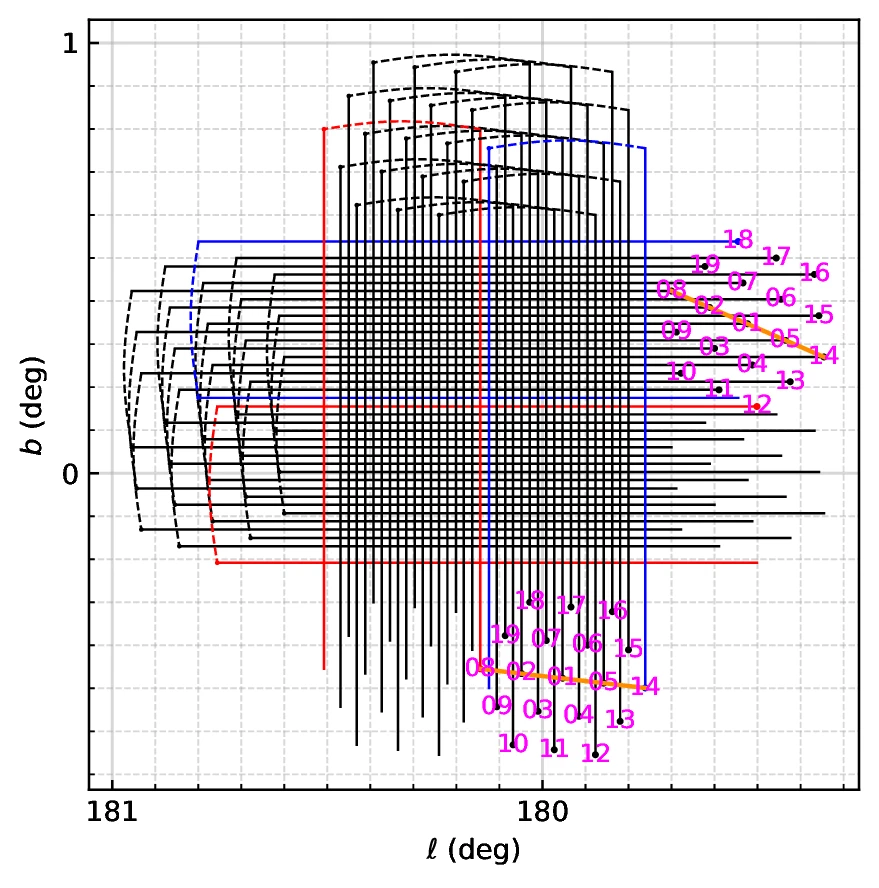
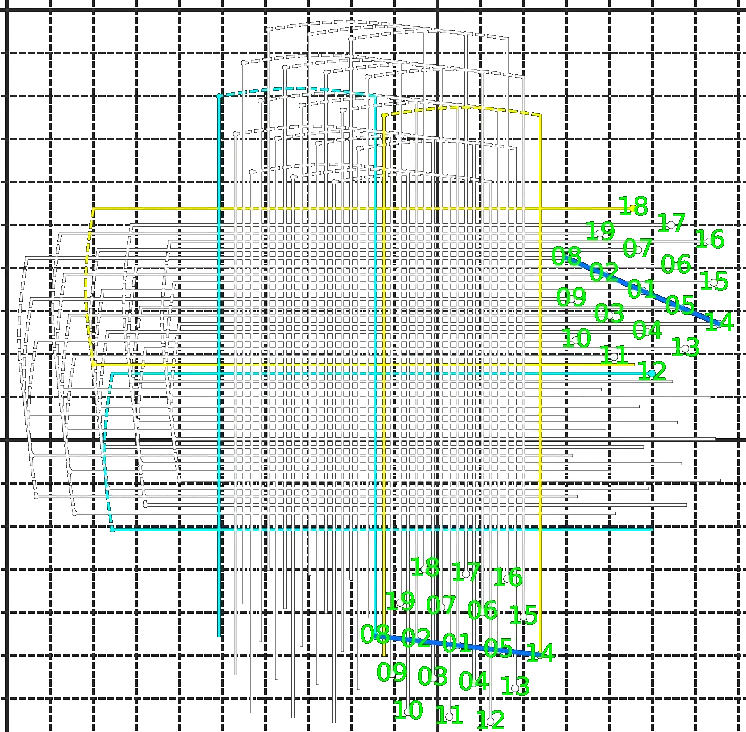
edit

diff --git a/index.html b/index.html
@@ -36,7 +36,7 @@
           <div><strong>~80</strong><span>mK target sensitivity</span></div>
         </div>
         <div>
-          <img src="output.webp" class="hero-image"
+          <img src="scanning-pattern.webp" class="hero-image"
             alt="Scanning pattern">
         </div>
         <a class="button button-light" href="#data">Data products ↓</a>
@@ -45,9 +45,8 @@
 
     <section id="survey" class="section">
       <div class="section-heading">
-        <p class="kicker">01 / SURVEY</p>
+        <p class="kicker">01 / SURVEY SPECIFICATIONS</p>
         <!-- <h2>Mapping the Galactic neutral medium at fine scales.</h2> -->
-          <h2>Survey specifications</h2>
       </div>
       <!-- <div class="two-column"> -->
         <!--
@@ -84,6 +83,7 @@
             <div><dt>Survey region</dt><dd>151.5° ≤ ℓ ≤ 212.6°, |b| ≤ 5°</dd></div>
             <div><dt>Angular resolution</dt><dd>~3′</dd></div>
             <div><dt>Velocity resolution</dt><dd>0.16 km s<sup>−1</sup></dd></div>
+            <div><dt>Velocity range</dt><dd>±600 km s<sup>−1</sup></dd></div>
             <div><dt>Target sensitivity</dt><dd>~80 mK</dd></div>
             <div><dt>Observing mode</dt><dd>MultiBeam Galactic OTF</dd></div>
             <div><dt>Sampling</dt><dd>Super-Nyquist</dd></div>
@@ -94,8 +94,7 @@
 
     <section id="data" class="section section-alt">
       <div class="section-heading">
-        <p class="kicker">02 / DATA ACCESS</p>
-        <h2>Data products for the community.</h2>
+        <p class="kicker">02 / DATA PRODUCTS</p>
       </div>
       <div class="card-grid">
         <article class="card featured-card">
@@ -168,6 +167,7 @@
             alt="FHIMAP H I moment-0 map">
         </div>
       </div>
+      <!--
       <p class="caption">
         FHIMAP combines high angular resolution, fine velocity resolution,
         high sensitivity, and dense spatial sampling to reveal multi-scale
@@ -178,6 +178,7 @@
         <div class="image-placeholder small"><span>High speed cloud</span></div>
         <div class="image-placeholder small"><span>Supernova remnant</span></div>
       </div>
+      -->
     </section>
 
     <section id="publications" class="section section-alt">
@@ -191,6 +192,11 @@
           <p>
             Survey description, observing strategy, data characteristics,
             validation, and first scientific demonstrations.
+          </p>
+          <div class="pub-links"><a href="#">ADS</a><a href="#">arXiv</a><a href="#">PDF</a></div>
+          <h3>FAST H I Mapping of the Milky Way Plane (FHIMAP): data pipeline</h3>
+          <p>
+            Description of the data pipeline, including the cross-calibration algorithm, RFI identification, etc.
           </p>
           <div class="pub-links"><a href="#">ADS</a><a href="#">arXiv</a><a href="#">PDF</a></div>
         </div>
@@ -207,14 +213,14 @@
     <section id="team" class="section">
       <div class="section-heading">
         <p class="kicker">06 / TEAM</p>
-        <h2>A collaboration across Chinese radio astronomy.</h2>
+        <!-- <h2>A collaboration across Chinese radio astronomy.</h2> -->
       </div>
       <div class="institution-grid">
-        <article><h3>Purple Mountain Observatory</h3><p>Nanjing, China</p><div class="names">Team members</div></article>
-        <article><h3>Xinjiang Astronomical Observatory</h3><p>Urumqi, China</p><div class="names">Team members</div></article>
-        <article><h3>Shanghai Astronomical Observatory</h3><p>Shanghai, China</p><div class="names">Team members</div></article>
-        <article><h3>Peking University</h3><p>Beijing, China</p><div class="names">Team members</div></article>
-        <article><h3>Nanjing University</h3><p>Nanjing, China</p><div class="names">Team members</div></article>
+        <article><h3>Purple Mountain Observatory</h3><p>Nanjing, China</p><div class="names"></div></article>
+        <article><h3>Xinjiang Astronomical Observatory</h3><p>Urumqi, China</p><div class="names"></div></article>
+        <article><h3>Shanghai Astronomical Observatory</h3><p>Shanghai, China</p><div class="names"></div></article>
+        <article><h3>Peking University</h3><p>Beijing, China</p><div class="names"></div></article>
+        <article><h3>Nanjing University</h3><p>Nanjing, China</p><div class="names"></div></article>
       </div>
     </section>
   </main>
